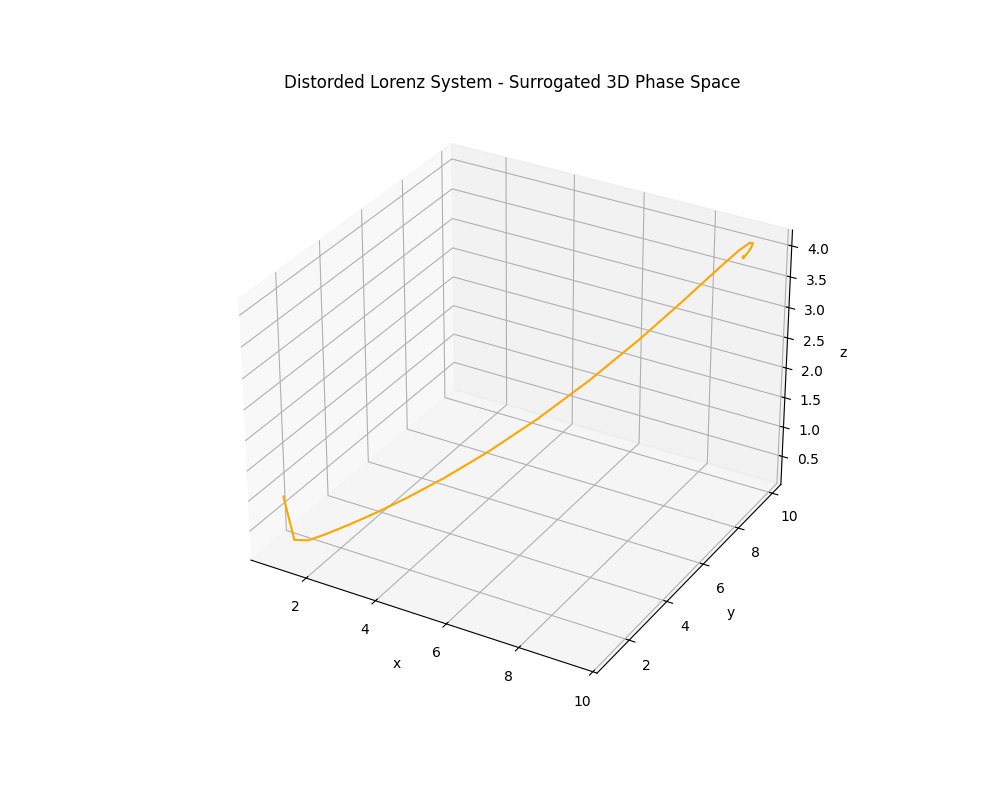
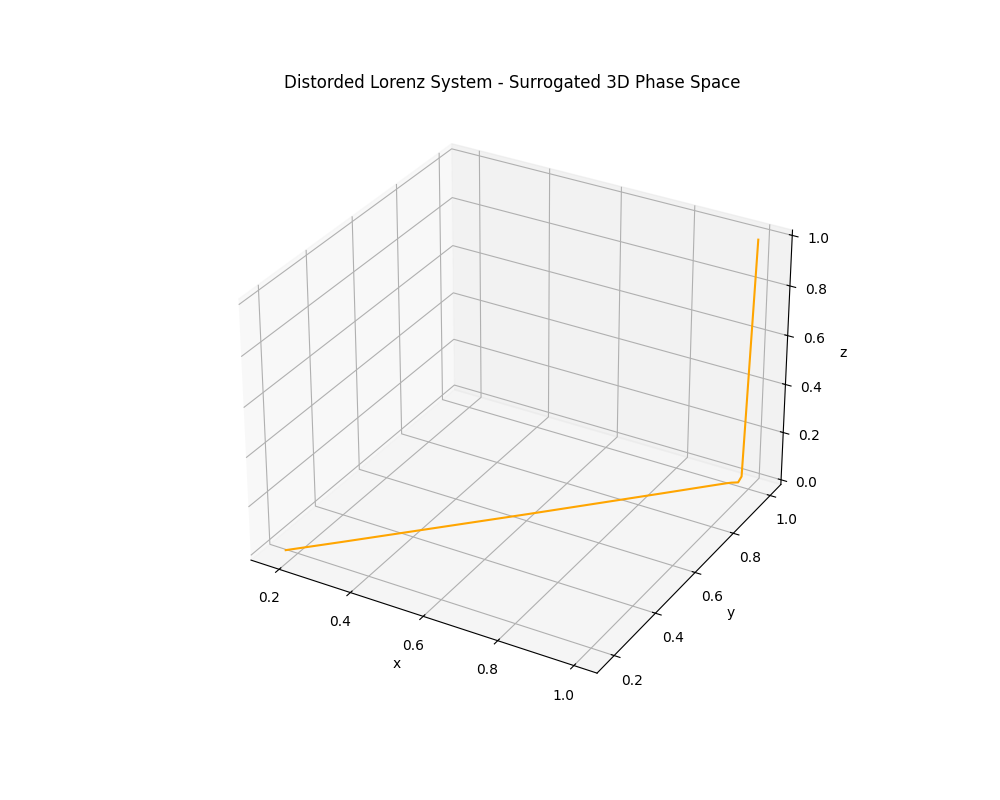
[assimilation8]

diff --git a/assimilation_old.py b/assimilation_old.py
@@ -16,10 +16,7 @@ def calculate_rms_over_time(base_solution, fitted_solution):
     Each RMS value is computed for the corresponding time step.
     """
     # Difference between base and fitted solutions
-    if base_solution.shape[0] == 3 or fitted_solution.shape[0] == 3:
-        differences = base_solution[:3] - fitted_solution[:3]
-    else:
-        differences = base_solution - fitted_solution
+    differences = base_solution - fitted_solution
     # RMS calculated across variables (rows) for each time step (columns)
     rms_values = np.sqrt(np.mean(differences ** 2, axis=0))
     return rms_values
@@ -56,38 +53,38 @@ def assimilate_data(system_func, initial_state, observed_data, t_span, bounds, s
 
 def main():
     systems = [
-        # {
-        #     "name": "Lorenz",
-        #     "ground_truth_func": lorenz_system,
-        #     "solver_params": None,
-        #     "base_params": [(10.0, 8.0 / 3.0, 28.0), (9.9, 2.5, 27.5)],
-        #     "bounds": [(5, 20), (0.5, 5), (20, 50)],
-        #     "gt_initial_state": [1.0, 1.0, 1.0]
-        # },
-        # {
-        #     "name": "Yang",
-        #     "ground_truth_func": yang_system,
-        #     "solver_params": None,
-        #     "base_params": [(10, 8. / 3., 16), (9.9, 2.5, 15.9)],
-        #     "bounds": [(5, 20), (2, 5), (10, 20)],
-        #     "gt_initial_state": [1.5, 1.5, 1.5]
-        # },
-        # {
-        #     "name": "Chen",
-        #     "ground_truth_func": chen_system,
-        #     "solver_params": None,
-        #     "base_params": [(34.5, 2.7, 28.0), (34.55, 2.8, 29.0)],
-        #     "bounds": [(33.0, 38.0), (2.0, 5.5), (26.0, 31.0)],
-        #     "gt_initial_state": [1.0, 1.0, 1.0]
-        # },
-        # {
-        #     "name": "Lu",
-        #     "ground_truth_func": lu_system,
-        #     "solver_params": None,
-        #     "base_params": [(36, 3, 20), (35.5, 2.5, 19.5)],
-        #     "bounds": [(32.0, 39.0), (1.5, 5.5), (15.0, 24.5)],
-        #     "gt_initial_state": [1.0, 1.0, 1.0]
-        # },
+        {
+            "name": "Lorenz",
+            "ground_truth_func": lorenz_system,
+            "solver_params": None,
+            "base_params": [(10.0, 8.0 / 3.0, 28.0), (9.9, 2.5, 27.5)],
+            "bounds": [(5, 20), (0.5, 5), (20, 50)],
+            "gt_initial_state": [1.0, 1.0, 1.0]
+        },
+        {
+            "name": "Yang",
+            "ground_truth_func": yang_system,
+            "solver_params": None,
+            "base_params": [(10, 8. / 3., 16), (9.9, 2.5, 15.9)],
+            "bounds": [(5, 20), (2, 5), (10, 20)],
+            "gt_initial_state": [1.5, 1.5, 1.5]
+        },
+        {
+            "name": "Chen",
+            "ground_truth_func": chen_system,
+            "solver_params": None,
+            "base_params": [(34.5, 2.7, 28.0), (34.55, 2.8, 29.0)],
+            "bounds": [(33.0, 38.0), (2.0, 5.5), (26.0, 31.0)],
+            "gt_initial_state": [1.0, 1.0, 1.0]
+        },
+        {
+            "name": "Lu",
+            "ground_truth_func": lu_system,
+            "solver_params": None,
+            "base_params": [(36, 3, 20), (35.5, 2.5, 19.5)],
+            "bounds": [(32.0, 39.0), (1.5, 5.5), (15.0, 24.5)],
+            "gt_initial_state": [1.0, 1.0, 1.0]
+        },
         {
             "name": "Distorded Lorenz System",
             "ground_truth_func": disturbed_lorenz_system,
@@ -117,7 +114,7 @@ def main():
             base_solution = solve_ivp(ground_truth_func, t_span, initial_state, args=base_params, t_eval=t_eval)
 
             fig = plot_3d_solution(base_solution, title=f"{system['name']} - 3D Phase Space")
-            save_plot(fig, "Surrogated_"+system['name'], (0, 90), 0, "3D_Phase_Space")
+            save_plot(fig, system['name'], (0, 90), 0, "3D_Phase_Space")
             for t_sample_span, sampling_points in sample_params:
                 print(f"Sampling for t_sample_span = {t_sample_span}, sampling_points = {sampling_points}")
 
@@ -129,7 +126,7 @@ def main():
                 # Plot sampled data
                 fig = plot_dynamic_variation(base_solution.t, base_solution.y, samples=sampled_points,
                                        title=f"{system['name']} - Sampled Dynamics for {t_sample_span[0]}-{t_sample_span[1]}")
-                save_plot(fig, "Surrogated_"+system['name'], t_sample_span, sampling_points, "Sampled_Dynamics")
+                save_plot(fig, system['name'], t_sample_span, sampling_points, "Sampled_Dynamics")
                 # Fit model to sampled data
                 fitted_params = assimilate_data(ground_truth_func, initial_state, sampled_data[0], t_sample_span,
                                                 system['bounds'], system.get('solver_params'))
@@ -137,23 +134,22 @@ def main():
 
                 # Predict forward and backward
 
+                # to_train_func = system.get('surrogate_func', ground_truth_func)
+
                 fitted_solution = solve_ivp(ground_truth_func, t_span, initial_state, args=fitted_params, t_eval=t_eval)
+                rms_values = calculate_rms_over_time(base_solution.y, fitted_solution.y)
 
-                to_train_func = system.get('surrogate_func', ground_truth_func)
-                surrogated_params = assimilate_data(to_train_func, initial_state[:3], sampled_data[0], t_sample_span,
-                                                system['bounds'][:3], system.get('solver_params'))
-
-                surrogated_solution = solve_ivp(to_train_func, t_span, initial_state[:3], args=surrogated_params, t_eval=t_eval)
-                base_rms_values = calculate_rms_over_time(base_solution.y, surrogated_solution.y)
-                fitted_rms_values = calculate_rms_over_time(fitted_solution.y, surrogated_solution.y)
-
-                fig = plot_rms_over_time(t_eval, base_rms_values, title=f"{system['name']} - Base RMS Over Time")
-                save_plot(fig, "Surrogated_"+system['name'], t_sample_span, sampling_points, "RMS_Over_Time")
-                fig = plot_rms_over_time(t_eval, fitted_rms_values, title=f"{system['name']} - Fitted RMS Over Time")
-                save_plot(fig,"Surrogated_"+ system['name'], t_sample_span, sampling_points, "RMS_Over_Time2")
-
-                fig = plot_3d_solution(surrogated_solution, title=f"{system['name']} - Surrogated 3D Phase Space", colors="orange")
-                save_plot(fig, "Surrogated_"+system['name'], t_sample_span, sampling_points, "Surrogated_3D_Phase_Space")
+                # Plot RMS over time
+                fig = plt.figure(figsize=(10, 6))
+                plt.plot(t_eval, rms_values, label="RMS Error", color="red")
+                plt.title(f"{system['name']} - RMS Over Time")
+                plt.xlabel("Time")
+                plt.ylabel("RMS Error")
+                plt.legend()
+                plt.grid()
+                plt.show()
+                save_plot(fig, system['name'], t_sample_span, sampling_points, "RMS_Over_Time")
+                # Plot fitted model
 
 
 if __name__ == "__main__":
